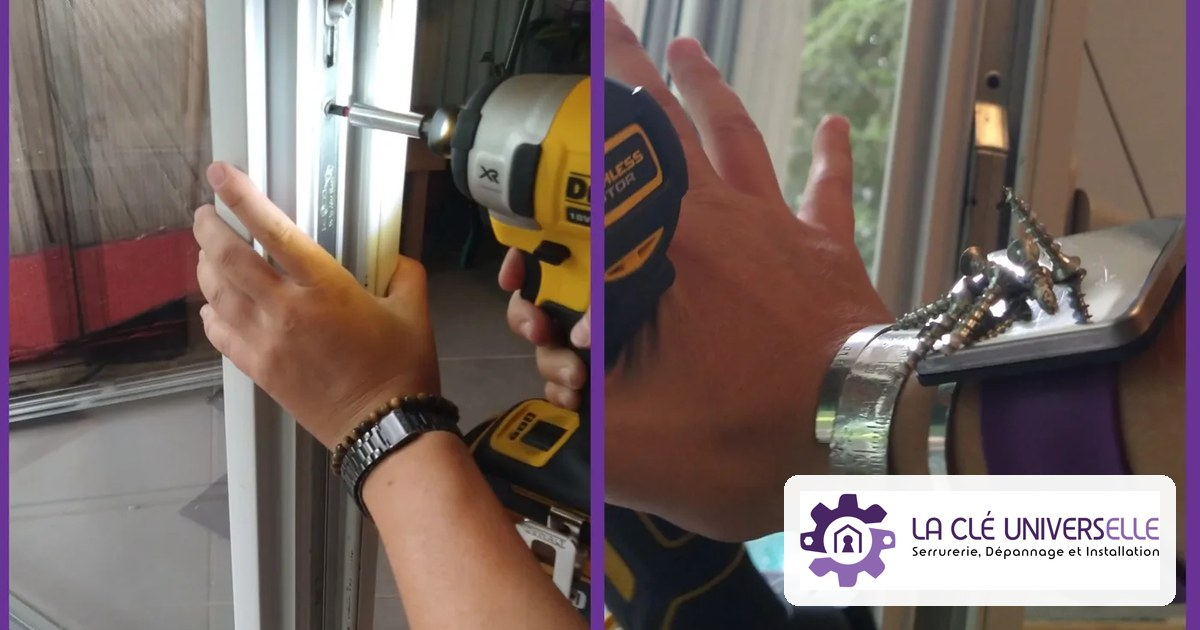
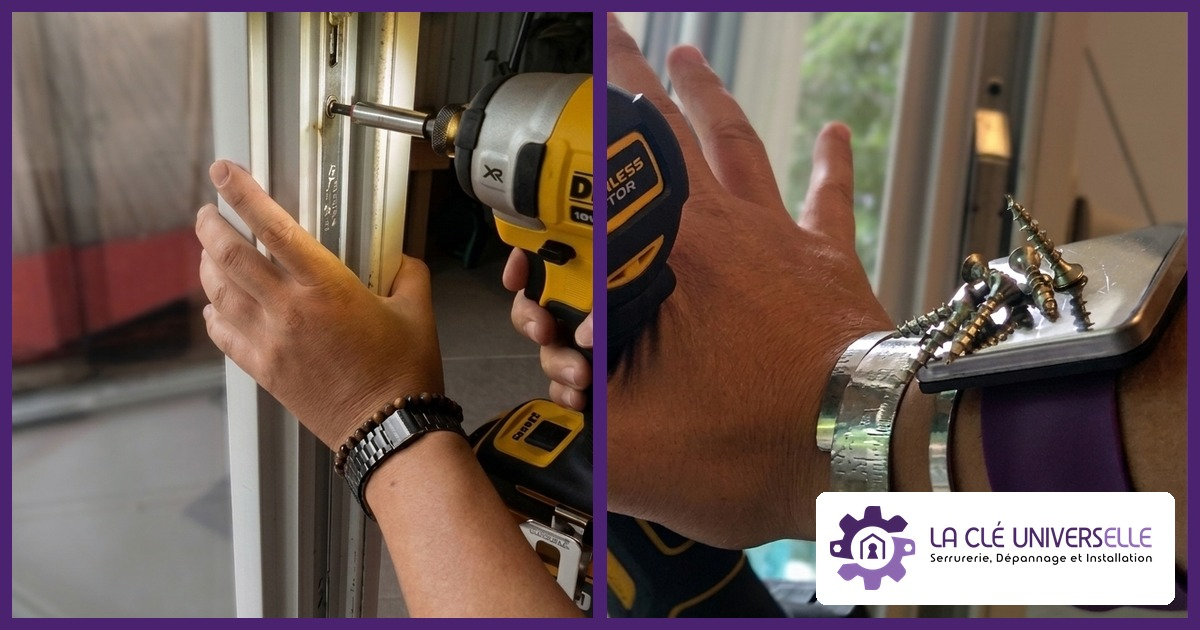
add

diff --git a/index.html b/index.html
@@ -268,7 +268,7 @@
         <path fill="#EA4335" d="M12 6.38c1.47 0 2.79.5 3.82 1.49l2.87-2.87C16.96 3.4 14.7 2.5 12 2.5A10 10 0 0 0 3.06 7.5l3.35 2.58C7.2 8.14 9.4 6.38 12 6.38z"/>
       </svg>
     </span>
-    <span class="gbp-text" max-width="10px">⭐⭐⭐⭐⭐ 5,0/5 · 25+ avis Google</span>
+    <span class="gbp-text" max-width="10px">⭐⭐⭐⭐⭐ 5,0/5 · 27+ avis Google</span>
   </a>
       </div>
       <ul class="hero-assurances" aria-label="Nos engagements">
